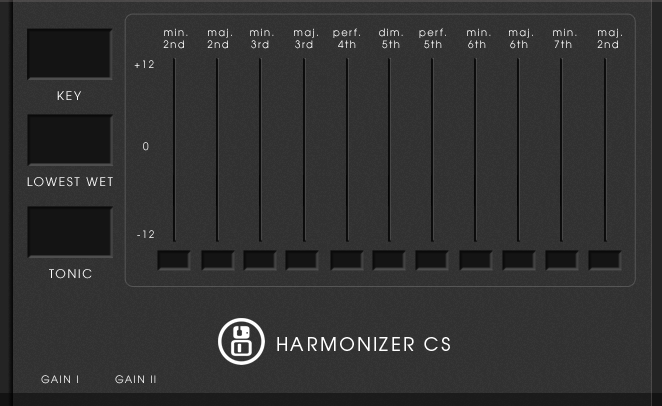
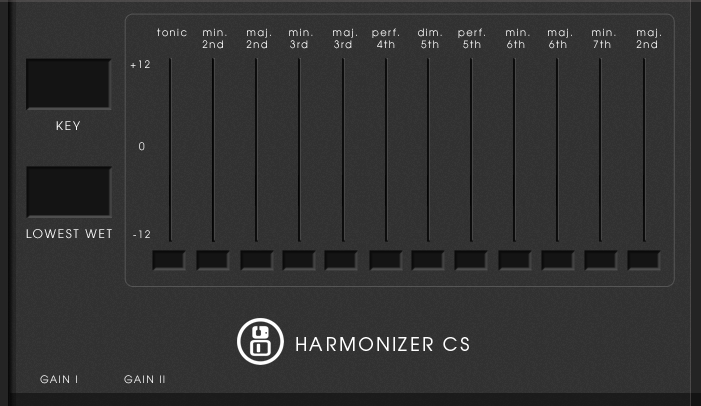
fixing harmonizer CS interface

diff --git a/HarmonizerCS/ttl/modgui/icon-harmonizercs.css b/HarmonizerCS/ttl/modgui/icon-harmonizercs.css
@@ -3,9 +3,9 @@
         background-image:url(/resources/bg-harmonizercs.png{{{ns}}});
         background-position:center center;
         background-repeat:no-repeat;
-        background-size:662px 406px;
+        background-size:701px 406px;
         position:relative;
-        width:662px;
+        width:701px;
         height:406px;
 
     }
@@ -56,7 +56,7 @@
         z-index: 100;
     }
     .mod-harmonizercs .mod-control-group-left {
-        margin: 2.7em 0 0 1.9em;
+        margin: 4.8em 0 0 1.9em;
         width: 100px;
         float: left;
     }
@@ -72,7 +72,7 @@
         height: 33px;
         z-index: 100;
         float: none;
-        margin-bottom: 4.9em;
+        margin-bottom: 6.6em;
 
     }
     .mod-harmonizercs .mod-slider.wet .mod-slider-image , .mod-harmonizercs .mod-slider.tonic .mod-slider-image {
@@ -94,7 +94,7 @@
         height: 31px
     }
     .mod-harmonizercs .mod-control-group-right {
-        width: 505px;
+        width: 550px;
         margin-top: 36px;
         height: 263px;
         float: right;
@@ -161,7 +161,7 @@
         height: 33px;
     }
     .mod-harmonizercs .mod-knob.gain {
-        margin-right: 15px
+        margin-right: 22px
     }
     .mod-harmonizercs .mod-footswitch.off{
         background-position-y: bottom;
@@ -220,7 +220,7 @@
     width: 32px;
     bottom: 44px;
     position: absolute !important;
-    right: 125px;
+    right: 140px;
     }
   }
 .mod-harmonizercs .mod-light.off { 

diff --git a/HarmonizerCS/ttl/modgui/icon-harmonizercs.html b/HarmonizerCS/ttl/modgui/icon-harmonizercs.html
@@ -7,11 +7,12 @@
         <div class="mod-slider wet">
             <div class="mod-slider-image" mod-role="input-control-port" mod-port-symbol="LowestNoteToChangeThePitch"></div>
         </div>
-        <div class="mod-slider tonic">
-            <div class="mod-slider-image" mod-role="input-control-port" mod-port-symbol="Step_0"></div>
-        </div>
     </div>
     <div class="mod-control-group-right">
+        <div class="mod-slider">
+            <div class="mod-slider-image" mod-role="input-control-port" mod-port-symbol="Step_0"></div>
+            <div class="mod-slider-value" mod-role="input-control-value" mod-port-symbol="Step_0"></div>
+        </div>
         <div class="mod-slider">
             <div class="mod-slider-image" mod-role="input-control-port" mod-port-symbol="Step_1"></div>
             <div class="mod-slider-value" mod-role="input-control-value" mod-port-symbol="Step_1"></div>
